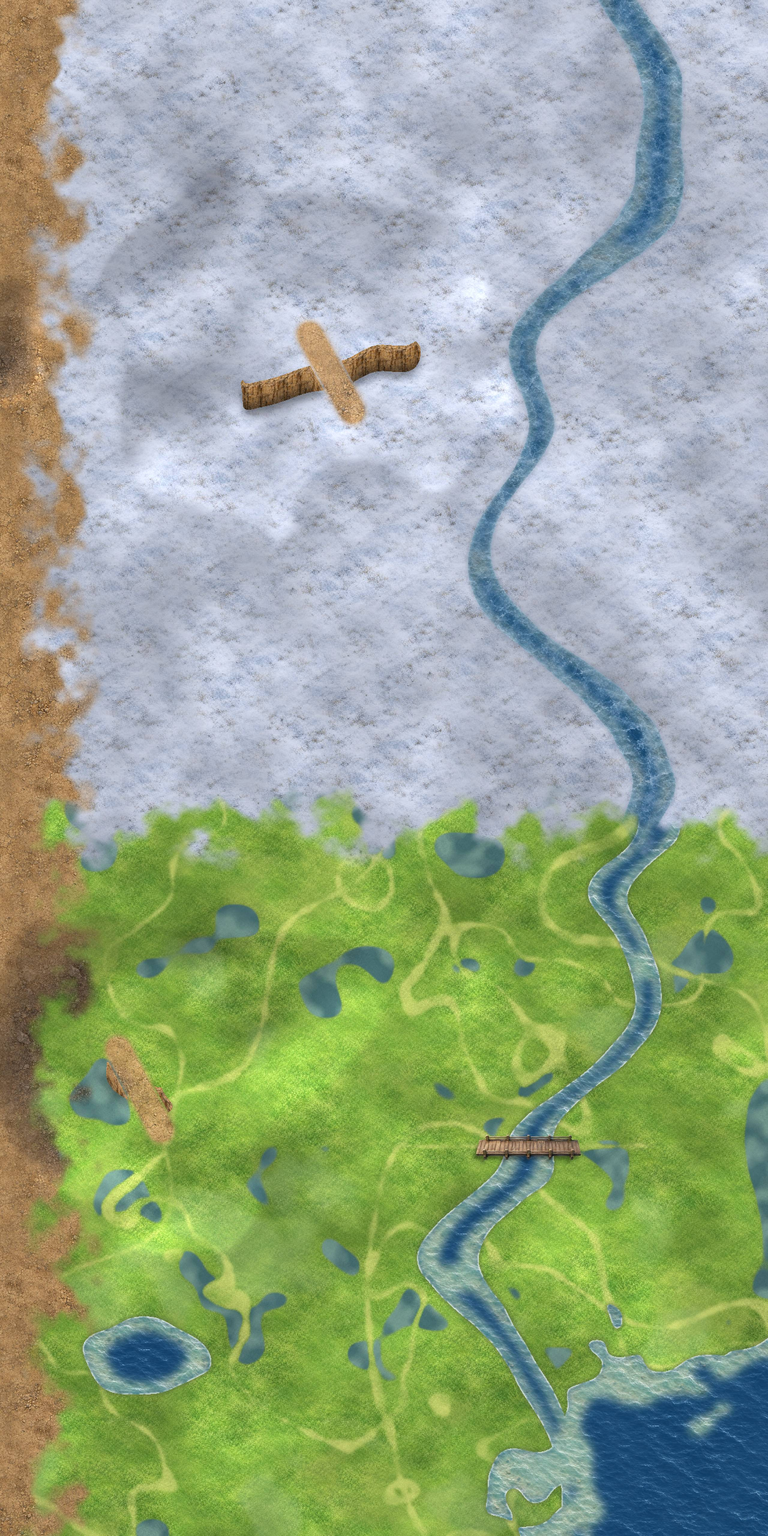
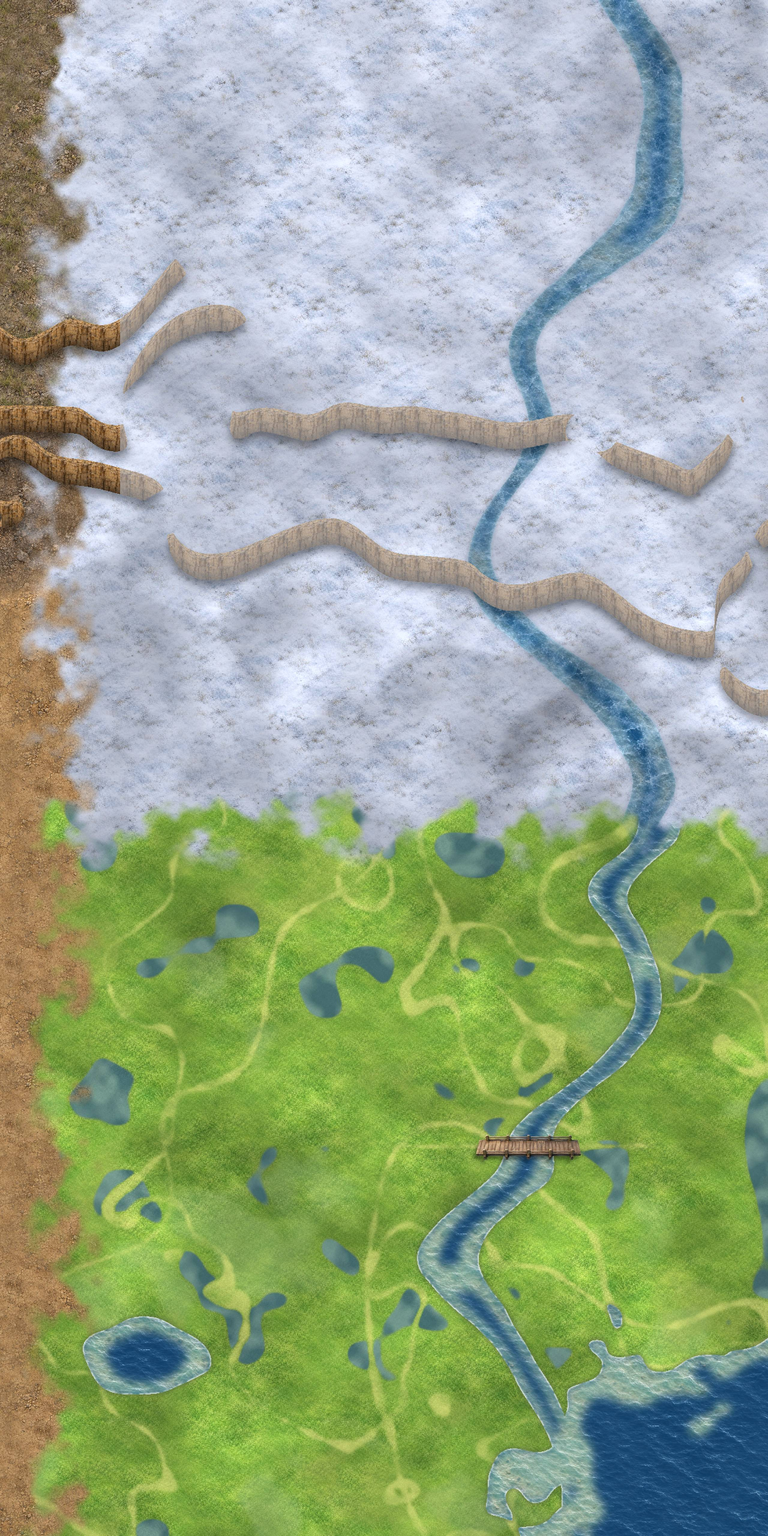
连续山脉地形、崖线缺口代替坡道路、按地貌过滤物件、灌木改为减速
Claude-Session: https://claude.ai/code/session_011WrGna6yNwTfpmyp4CxMHs

diff --git a/src/main.js b/src/main.js
@@ -94,8 +94,8 @@ function loop(now){
  let dx=(keys.d||keys.arrowright?1:0)-(keys.a||keys.arrowleft?1:0),dy=(keys.s||keys.arrowdown?1:0)-(keys.w||keys.arrowup?1:0);
  if(joy){const L=Math.hypot(joy.dx,joy.dy);if(L>8){dx=joy.dx/L;dy=joy.dy/L}}
  const L=Math.hypot(dx,dy),moving=L>0;if(moving){dx/=L;dy/=L;if(dx)hero.face=dx>0?1:-1}
- const inSh=water(hero.x,hero.y)===2;
- const sp=72*dt*(inSh?.55:1);let nx=Math.min(WW-14,Math.max(14,hero.x+dx*sp)),ny=Math.min(WH-10,Math.max(14,hero.y+dy*sp));
+ const wg=water(hero.x,hero.y),inSh=wg===2;
+ const sp=72*dt*(inSh?.55:wg===3?.6:1);let nx=Math.min(WW-14,Math.max(14,hero.x+dx*sp)),ny=Math.min(WH-10,Math.max(14,hero.y+dy*sp));
  if(ok(nx,hero.y))hero.x=nx;if(ok(hero.x,ny))hero.y=ny;
  if(inSh&&moving&&Math.random()<dt*7)rip.push({x:hero.x,y:hero.y,t:now});
  enemySystem.update(en,dt,1);
